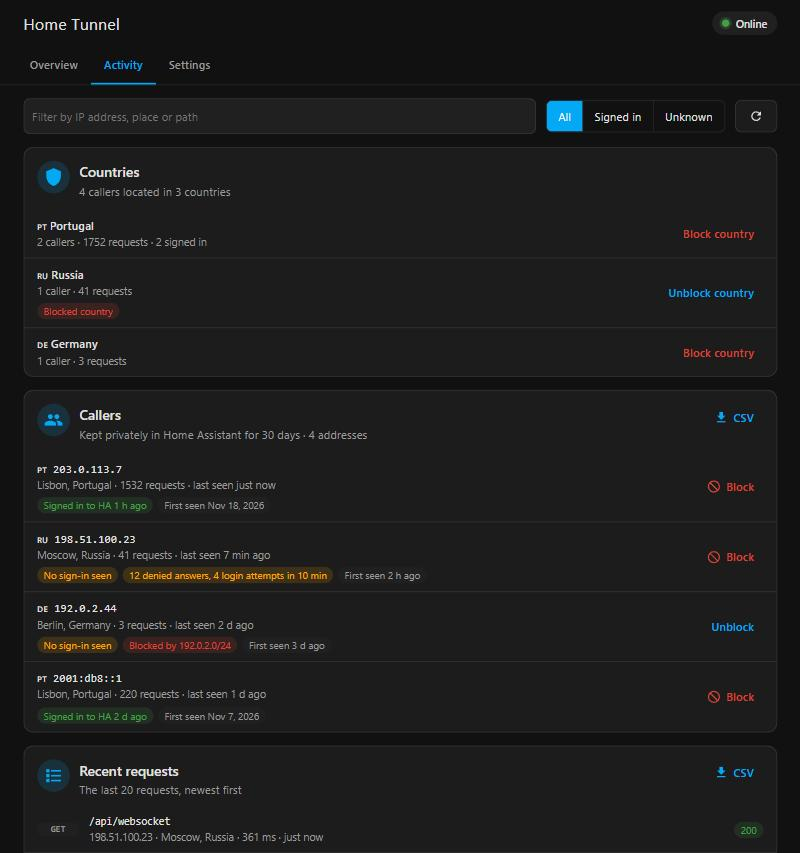
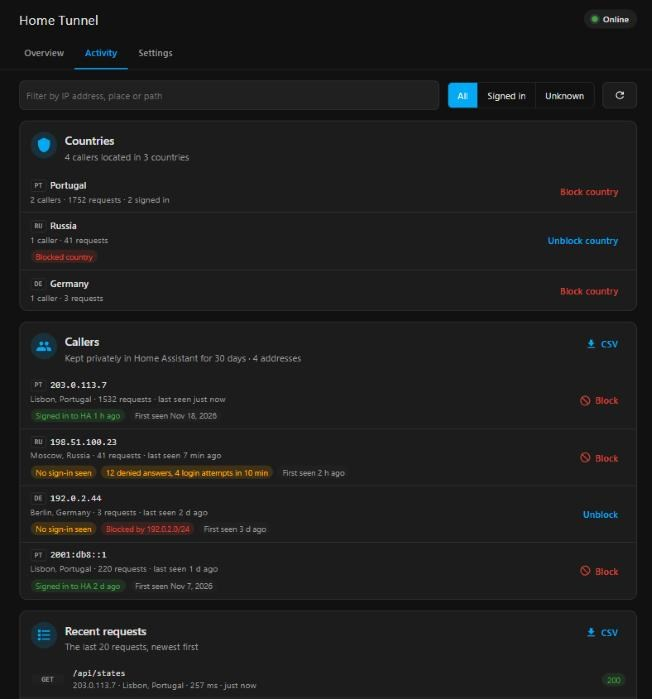
Fix country lookups and notify services; show country codes
Run ipapi.co lookups one at a time, pause on rate limits and retry instead of
caching an empty answer, so country rules see most callers. Accept repeated
ips= parameters, since a host firewall refused comma-separated IP lists.
Read Home Assistant and release answers whole: a single read() could return
a partial body and broke the notify service list on large installs. Show
countries as two-letter codes instead of flag emoji.

diff --git a/home-assistant/connector/setup.html b/home-assistant/connector/setup.html
@@ -67,6 +67,8 @@
     .chip.on,.chip.ok{background:rgba(var(--rgb-success-color),.15);color:var(--success-color)}
     .chip.warn{background:rgba(var(--rgb-warning-color),.15);color:var(--warning-color)}
     .chip.bad{background:rgba(var(--rgb-error-color),.15);color:var(--error-color)}
+    .cc{display:inline-block;min-width:24px;margin-right:6px;padding:0 4px;border-radius:4px;border:1px solid var(--divider-color);font-family:var(--code-font-family);font-size:11px;font-weight:600;line-height:16px;text-align:center;color:var(--secondary-text-color);vertical-align:1px}
+    .chip .cc{border-color:currentColor;color:inherit;margin-right:4px}
     .chip-x{border:0;background:none;color:inherit;font:inherit;font-size:14px;line-height:1;padding:0 0 0 6px;cursor:pointer}
     .chip.info{background:rgba(var(--rgb-primary-color),.15);color:var(--primary-color)}
     .method{font-family:var(--code-font-family);font-size:11px;font-weight:600;min-width:52px;text-align:center}
@@ -200,7 +202,8 @@
   let regionNames = null;
   try { regionNames = new Intl.DisplayNames([navigator.language || 'en', 'en'], {type: 'region'}); } catch (error) { /* older browser */ }
   const countryName = code => { try { return regionNames?.of(code) || code; } catch (error) { return code; } };
-  const flag = code => /^[A-Z]{2}$/.test(code || '') ? String.fromCodePoint(...[...code].map(c => 0x1F1E6 + c.charCodeAt(0) - 65)) : '';
+  // A two-letter country code, shown as a small tag in place of a flag.
+  const countryTag = code => /^[A-Z]{2}$/.test(code || '') ? el('span', {class: 'cc', title: countryName(code)}, code) : null;
   const COUNTRY_MODES = [['off', 'Off'], ['block', 'Block listed'], ['allow', 'Allow only listed']];
 
   const state = {
@@ -752,7 +755,7 @@
         'aria-pressed': String(!!selected), 'aria-label': selected ? 'Show all callers' : `Show requests from ${row.ip}`,
         onclick: pick, onkeydown: e => e.target === e.currentTarget && (e.key === 'Enter' || e.key === ' ') && (e.preventDefault(), pick())},
         el('div', {class: 'grow'},
-          el('div', {class: 'title mono'}, state.countries[row.ip] ? `${flag(state.countries[row.ip])} ` : '', row.ip),
+          el('div', {class: 'title mono'}, countryTag(state.countries[row.ip]), row.ip),
           el('div', {class: 'sub'}, [loc(row.ip), plural(num(row.requests), 'request'), `last seen ${ago(row.last_seen)}`].filter(Boolean).join(' · ')),
           el('div', {class: 'chips'},
             row.status === 'authenticated'
@@ -788,7 +791,7 @@
       el('div', {class: 'toolbar'}, search,
         segmented(CALLER_FILTERS, state.filter, value => { state.filter = value; state.callerShown = 25; render(); }, 'Caller filter'),
         state.country ? el('button', {class: 'btn', onclick: () => { state.country = ''; render(); }, 'aria-label': `Stop showing only ${countryName(state.country)}`},
-          `${flag(state.country)} ${countryName(state.country)} ×`) : null,
+          countryTag(state.country), `${countryName(state.country)} ×`) : null,
         el('button', {class: 'btn', id: 'refresh-activity', onclick: () => { refreshTelemetry(); refreshBlocks(); }, 'aria-label': 'Refresh', title: 'Refresh'}, icon(ICONS.refresh))),
       renderCountries(callers),
       section(ICONS.people, 'Callers', historyNote, callers.length ? csv('callers', () => exportCallers(m)) : null,
@@ -859,7 +862,7 @@
         return el('div', {class: `row clickable${state.country === g.code ? ' selected' : ''}`, tabindex: '0', role: 'button',
           'aria-label': `Show callers from ${countryName(g.code)}`, onclick: pick,
           onkeydown: e => e.target === e.currentTarget && (e.key === 'Enter' || e.key === ' ') && (e.preventDefault(), pick())},
-          el('div', {class: 'grow'}, el('div', {class: 'title'}, `${flag(g.code)} ${countryName(g.code)}`),
+          el('div', {class: 'grow'}, el('div', {class: 'title'}, countryTag(g.code), countryName(g.code)),
             el('div', {class: 'sub'}, [plural(g.callers, 'caller'), plural(g.requests, 'request'), g.signedIn ? `${g.signedIn} signed in` : null].filter(Boolean).join(' · ')),
             blockedHere ? el('div', {class: 'chips'}, chip(c.mode === 'allow' ? 'Not allowed' : 'Blocked country', 'bad')) : null),
           el('button', {class: `btn text${blockedHere ? '' : ' danger'}`, disabled: state.busy, onclick: e => { e.stopPropagation(); toggle(g.code); }, onkeydown: e => e.stopPropagation()},
@@ -1118,7 +1121,7 @@
         }, 'Country rule')),
       el('div', {class: 'row'},
         el('div', {class: 'grow'}, el('div', {class: 'title'}, c.mode === 'allow' ? 'Allowed countries' : 'Countries'),
-          c.codes.length ? el('div', {class: 'chips'}, c.codes.map(code => el('span', {class: 'chip info'}, `${flag(code)} ${countryName(code)}`,
+          c.codes.length ? el('div', {class: 'chips'}, c.codes.map(code => el('span', {class: 'chip info'}, countryTag(code), countryName(code),
             el('button', {class: 'chip-x', type: 'button', 'aria-label': `Remove ${countryName(code)}`, title: 'Remove', disabled: state.busy,
               onclick: () => save({codes: c.codes.filter(x => x !== code), mode: c.mode === 'allow' && c.codes.length === 1 ? 'off' : c.mode})}, '×'))))
             : el('div', {class: 'sub'}, 'None yet.'))),
@@ -1126,12 +1129,13 @@
         el('div', {}, el('label', {class: 'field', for: 'country-pick'}, 'Add a country'),
           el('select', {id: 'country-pick', style: 'width:100%', onchange: e => { state.countryPick = e.target.value; }},
             el('option', {value: '', selected: !state.countryPick}, 'Pick a country…'),
-            available.map(([code, name]) => el('option', {value: code, selected: code === state.countryPick}, `${flag(code)} ${name}`)))),
+            available.map(([code, name]) => el('option', {value: code, selected: code === state.countryPick}, `${name} (${code})`)))),
         el('div', {style: 'flex:0 0 auto;min-width:0'}, el('button', {class: 'btn', type: 'button', disabled: state.busy, onclick: add}, 'Add')),
         el('div', {style: 'min-width:160px'}, el('label', {class: 'field', for: 'country-minutes'}, 'Block for'),
           el('select', {id: 'country-minutes', style: 'width:100%', disabled: state.busy, onchange: e => save({minutes: Number(e.target.value) || null})},
             BLOCK_DURATIONS.filter(([value]) => value !== '60').map(([value, text]) =>
               el('option', {value, selected: String(c.minutes ?? '') === value}, text))))),
+      geoProblem(s.geolocation_status),
       selfRisk ? el('div', {class: 'pad sub warn'}, `You are connecting from ${countryName(myCountry)}. This rule would block you if you weren’t already signed in.`) : null,
       el('div', {class: 'pad sub'}, 'Each address is checked the first time it’s seen, so its first requests get through. Addresses that have signed in to Home Assistant are never blocked by country. Lookups count toward the 200-a-day limit; once it’s reached, new addresses aren’t checked until the next day.'),
     ];
@@ -1140,6 +1144,14 @@
         state.geoSaving ? 'Saving…' : 'Sends public caller addresses to ipapi.co for an approximate city, region and country. Results are cached for a day, at most 200 new addresses a day, and can be wrong. Turning this off also turns off country data and country blocking.',
         on, setGeolocation, state.geoSaving),
       rules);
+  }
+
+  function geoProblem(status) {
+    if (!status) return null;
+    if (status.remaining_today === 0) return el('div', {class: 'pad sub warn'}, 'Today’s 200 location lookups are used up. New addresses get a country again tomorrow.');
+    if (status.error === 'rate_limited') return el('div', {class: 'pad sub warn'}, `ipapi.co is limiting lookups (${ago(new Date(status.at * 1000).toISOString())}). Addresses are checked as it allows.`);
+    if (status.error === 'failed') return el('div', {class: 'pad sub warn'}, `The last location lookup failed (${ago(new Date(status.at * 1000).toISOString())}). Failed addresses are retried after 15 minutes.`);
+    return null;
   }
 
   async function saveCountries(value) {
@@ -1222,7 +1234,8 @@
     const ips = [...new Set([...recent, ...callers])].filter(ip => isIp(ip) && !(ip in state.locations)).slice(0, 10);
     if (!ips.length) return;
     try {
-      const result = await api(`geolocation?ips=${encodeURIComponent(ips.join(','))}`);
+      // Repeated parameters: some hosting firewalls refuse a comma-separated list of IP addresses.
+      const result = await api(`geolocation?${ips.map(ip => `ips=${encodeURIComponent(ip)}`).join('&')}`);
       if (!result.enabled) return;
       for (const ip of ips) {
         state.locations[ip] = (result.locations || {})[ip] || '';

diff --git a/home-assistant/connector/service.py b/home-assistant/connector/service.py
@@ -60,6 +60,7 @@ DEFAULT_COUNTRIES = {"mode": "off", "codes": [], "minutes": 30 * 24 * 60}
 GEOLOCATION_CACHE_TTL = 24 * 60 * 60
 GEOLOCATION_CACHE_LIMIT = 512
 GEOLOCATION_LOOKUP_LIMIT = 200
+GEOLOCATION_URL = "https://ipapi.co/{}/json/"
 GEOLOCATION_CACHE = {}
 GEOLOCATION_WINDOW_STARTED = 0
 GEOLOCATION_LOOKUP_COUNT = 0
@@ -72,6 +73,18 @@ VERSION_PATTERN = re.compile(r"\A(0|[1-9][0-9]*)\.(0|[1-9][0-9]*)\.(0|[1-9][0-9]
 PAIR_LABEL = "home-tunnel-pair-v1"
 LOG = logging.getLogger("home-tunnel-service")
 child = None
+
+
+async def read_limited(response, limit):
+    """The whole response body, refusing anything larger than limit bytes."""
+    if response.content_length is not None and response.content_length > limit:
+        raise ValueError("response too large")
+    body = bytearray()
+    async for block in response.content.iter_chunked(65536):
+        body.extend(block)
+        if len(body) > limit:
+            raise ValueError("response too large")
+    return bytes(body)
 
 
 def read_json(path, limit=8192):
@@ -239,9 +252,7 @@ async def release_checker():
                 async with session.get(RELEASE_MANIFEST_URL, allow_redirects=False) as response:
                     if response.status != 200 or (response.content_length is not None and response.content_length > 16384):
                         raise ValueError("release metadata unavailable")
-                    raw = await response.content.read(16385)
-                    if len(raw) > 16384:
-                        raise ValueError("release metadata too large")
+                    raw = await read_limited(response, 16384)
                     metadata = valid_release_manifest(json.loads(raw))
                     if metadata is None:
                         raise ValueError("release metadata invalid")
@@ -362,6 +373,8 @@ async def status(request):
         "error": live.get("error") if now - live.get("updated_at", 0) < 90 else None,
         "relay_features": relay_version.get("features") if isinstance(relay_version.get("features"), list) else [],
         "relay_native_clients": relay_version.get("native_clients"),
+        "geolocation_status": {"error": GEOLOCATION_STATUS["error"], "at": GEOLOCATION_STATUS["at"],
+                               "remaining_today": max(0, GEOLOCATION_LOOKUP_LIMIT - GEOLOCATION_LOOKUP_COUNT)},
         "relay_refused": REFUSED["items"],
         "relay_refused_at": REFUSED["at"],
         "relay_latency_ms": relay_version.get("latency_ms"),
@@ -514,6 +527,14 @@ async def update_settings(request):
     return web.json_response({"homeassistant_url": value, "restarting": restarting}, headers={"Cache-Control": "no-store"})
 
 
+GEOLOCATION_STATUS = {"error": None, "at": None, "paused_until": 0.0}
+
+
+def refund_location_slots(count):
+    global GEOLOCATION_LOOKUP_COUNT
+    GEOLOCATION_LOOKUP_COUNT = max(0, GEOLOCATION_LOOKUP_COUNT - count)
+
+
 def fetch_location_slots(count, now):
     """Reserve up to `count` new ipapi.co lookups under the shared daily cap."""
     global GEOLOCATION_WINDOW_STARTED, GEOLOCATION_LOOKUP_COUNT
@@ -556,26 +577,41 @@ async def lookup_locations(ips, max_new=10):
             found[value] = (cached[1], cached[2] if len(cached) > 2 else "")
         else:
             missing.append(value)
+    if missing and time.monotonic() < GEOLOCATION_STATUS["paused_until"]:
+        return found  # the provider asked us to slow down
     missing = missing[:fetch_location_slots(min(len(missing), max_new), now)]
-    semaphore = asyncio.Semaphore(4)
 
-    async def lookup(session, value):
-        async with semaphore:
-            try:
-                async with session.get(f"https://ipapi.co/{value}/json/") as response:
-                    if response.status != 200:
-                        return value, ("", "")
-                    return value, parse_location(await response.json(content_type=None))
-            except (aiohttp.ClientError, asyncio.TimeoutError, ValueError, OSError):
-                return value, ("", "")
+    def remember(value, label, code):
+        if len(GEOLOCATION_CACHE) >= GEOLOCATION_CACHE_LIMIT:
+            GEOLOCATION_CACHE.pop(next(iter(GEOLOCATION_CACHE)))
+        GEOLOCATION_CACHE[value] = (now, label, code)
 
     if missing:
+        # One at a time: ipapi.co's free tier refuses bursts of parallel lookups.
         async with aiohttp.ClientSession(timeout=aiohttp.ClientTimeout(total=5), trust_env=False) as session:
-            for value, (label, code) in await asyncio.gather(*(lookup(session, ip) for ip in missing)):
+            for index, value in enumerate(missing):
+                try:
+                    async with session.get(GEOLOCATION_URL.format(value)) as response:
+                        if response.status == 429:
+                            refund_location_slots(len(missing) - index)
+                            GEOLOCATION_STATUS.update({"error": "rate_limited", "at": time.time(), "paused_until": time.monotonic() + 120})
+                            LOG.info("Location lookups rate-limited by ipapi.co; pausing")
+                            break
+                        data = await response.json(content_type=None) if response.status == 200 else None
+                except (aiohttp.ClientError, asyncio.TimeoutError, ValueError, OSError):
+                    data = None
+                label, code = parse_location(data)
+                if isinstance(data, dict) and data.get("reason") == "RateLimited":
+                    refund_location_slots(len(missing) - index)
+                    GEOLOCATION_STATUS.update({"error": "rate_limited", "at": time.time(), "paused_until": time.monotonic() + 120})
+                    break
+                if code or label:
+                    GEOLOCATION_STATUS.update({"error": None, "at": time.time()})
+                else:
+                    GEOLOCATION_STATUS.update({"error": "failed", "at": time.time()})
                 found[value] = (label, code)
-                if len(GEOLOCATION_CACHE) >= GEOLOCATION_CACHE_LIMIT:
-                    GEOLOCATION_CACHE.pop(next(iter(GEOLOCATION_CACHE)))
-                GEOLOCATION_CACHE[value] = (now, label, code)
+                remember(value, label, code)
+                await asyncio.sleep(0.25)
     return found
 
 
@@ -583,7 +619,7 @@ async def geolocation(request):
     settings = read_json(SETTINGS) or {}
     if settings.get("geolocation_enabled") is not True:
         return web.json_response({"enabled": False, "locations": {}, "countries": {}}, headers={"Cache-Control": "no-store"})
-    ips = list(dict.fromkeys(request.query.get("ips", "").split(",")))
+    ips = list(dict.fromkeys(ip for value in request.query.getall("ips", []) for ip in value.split(",") if ip))
     if not ips or len(ips) > 10:
         raise web.HTTPBadRequest(text="Request up to 10 recent IP addresses")
     found = await lookup_locations(ips)
@@ -871,9 +907,8 @@ async def ha_api(method, path, payload=None):
                                    headers={"Authorization": f"Bearer {SUPERVISOR_TOKEN}"}) as response:
             if response.status >= 400:
                 raise aiohttp.ClientResponseError(response.request_info, (), status=response.status)
-            raw = await response.content.read(262145)
-            if len(raw) > 262144:
-                raise ValueError("Home Assistant response too large")
+            # The services list of a large install runs to megabytes.
+            raw = await read_limited(response, 8 * 1024 * 1024)
             return json.loads(raw) if raw else None
 
 
@@ -906,7 +941,9 @@ async def notify_targets(request):
                                   if NOTIFY_TARGET_PATTERN.fullmatch(f"notify.{name}") and name not in ("send_message", "persistent_notification"))
     except PermissionError:
         error = "unavailable"
-    except (aiohttp.ClientError, asyncio.TimeoutError, ValueError, OSError):
+    except (aiohttp.ClientError, asyncio.TimeoutError, ValueError, OSError) as failure:
+        LOG.warning("Could not list notify services (%s%s)", type(failure).__name__,
+                    f" {failure.status}" if isinstance(failure, aiohttp.ClientResponseError) else "")
         error = "unreachable"
     return web.json_response({"targets": targets, "error": error}, headers={"Cache-Control": "no-store"})
 

diff --git a/tests/test_features.py b/tests/test_features.py
@@ -180,6 +180,71 @@ class ServiceFeatureTests(unittest.IsolatedAsyncioTestCase):
             self.assertEqual(service.REFUSED["items"][0]["route"], "/api/events/websocket")
             service.REFUSED.update({"items": [], "at": None, "checked": 0.0})
 
+    async def fake_ipapi(self, answers):
+        """A local stand-in for ipapi.co; answers maps IP -> (status, json)."""
+        seen = []
+
+        async def handler(request):
+            ip = request.match_info["ip"]
+            seen.append(ip)
+            status, body = answers.get(ip, (200, {"country_code": "PT", "country_name": "Portugal", "city": "Porto"}))
+            return web.json_response(body, status=status)
+        app = web.Application()
+        app.router.add_get("/{ip}/json/", handler)
+        runner = web.AppRunner(app)
+        await runner.setup()
+        site = web.TCPSite(runner, "127.0.0.1", 0)
+        await site.start()
+        self.addAsyncCleanup(runner.cleanup)
+        port = site._server.sockets[0].getsockname()[1]
+        return f"http://127.0.0.1:{port}/{{}}/json/", seen
+
+    async def test_lookups_run_one_at_a_time_and_pause_when_rate_limited(self):
+        url, seen = await self.fake_ipapi({"1.1.1.1": (429, {"error": True, "reason": "RateLimited"})})
+        state = {"GEOLOCATION_URL": url, "GEOLOCATION_CACHE": {}, "GEOLOCATION_LOOKUP_COUNT": 0,
+                 "GEOLOCATION_WINDOW_STARTED": time.monotonic(),
+                 "GEOLOCATION_STATUS": {"error": None, "at": None, "paused_until": 0.0}}
+        with patch.multiple(service, **state):
+            found = await service.lookup_locations(["8.8.8.8", "1.1.1.1", "9.9.9.9"])
+            self.assertEqual(found, {"8.8.8.8": ("Porto, Portugal", "PT")})
+            self.assertEqual(seen, ["8.8.8.8", "1.1.1.1"], "lookups stop at the first rate-limit answer")
+            self.assertNotIn("1.1.1.1", service.GEOLOCATION_CACHE, "a rate-limited address is retried, not cached empty")
+            self.assertEqual(service.GEOLOCATION_LOOKUP_COUNT, 1, "unused lookups go back to the daily budget")
+            self.assertEqual(service.GEOLOCATION_STATUS["error"], "rate_limited")
+            self.assertEqual(await service.lookup_locations(["9.9.9.9"]), {}, "no new lookups while paused")
+            self.assertEqual(len(seen), 2)
+
+    async def test_geolocation_endpoint_accepts_repeated_parameters(self):
+        url, _ = await self.fake_ipapi({})
+        with tempfile.TemporaryDirectory() as directory:
+            settings = Path(directory) / "settings.json"
+            settings.write_text(json.dumps({"geolocation_enabled": True}))
+            state = {"GEOLOCATION_URL": url, "GEOLOCATION_CACHE": {}, "GEOLOCATION_LOOKUP_COUNT": 0, "SETTINGS": settings,
+                     "GEOLOCATION_WINDOW_STARTED": time.monotonic(), "GEOLOCATION_STATUS": {"error": None, "at": None, "paused_until": 0.0}}
+            from aiohttp.test_utils import make_mocked_request
+            with patch.multiple(service, **state):
+                response = await service.geolocation(make_mocked_request("GET", "/api/geolocation?ips=8.8.8.8&ips=1.1.1.1,9.9.9.9"))
+            self.assertEqual(json.loads(response.text)["countries"], {"8.8.8.8": "PT", "1.1.1.1": "PT", "9.9.9.9": "PT"})
+
+    async def test_large_home_assistant_answers_are_read_whole(self):
+        services = [{"domain": f"domain_{n}", "services": {f"service_{m}": {"description": "x" * 200} for m in range(40)}} for n in range(60)]
+        services.append({"domain": "notify", "services": {"mobile_app_phone": {}, "send_message": {}}})
+
+        async def handler(request):
+            return web.json_response(services)
+        app = web.Application()
+        app.router.add_get("/core/api/services", handler)
+        runner = web.AppRunner(app)
+        await runner.setup()
+        site = web.TCPSite(runner, "127.0.0.1", 0)
+        await site.start()
+        self.addAsyncCleanup(runner.cleanup)
+        port = site._server.sockets[0].getsockname()[1]
+        with patch.object(service, "SUPERVISOR_API", f"http://127.0.0.1:{port}/core/api"), patch.object(service, "SUPERVISOR_TOKEN", "t"):
+            data = json.loads((await service.notify_targets(None)).text)
+        self.assertGreater(len(json.dumps(services)), 300000)
+        self.assertEqual(data, {"targets": ["persistent_notification", "notify.mobile_app_phone"], "error": None})
+
     def test_supervisor_token_is_taken_out_of_the_environment(self):
         with patch.dict(os.environ, {"HOME_TUNNEL_SUPERVISOR_TOKEN": "secret", "SUPERVISOR_TOKEN": "x"}):
             service.take_supervisor_token()

diff --git a/home-assistant/connector/metrics.py b/home-assistant/connector/metrics.py
@@ -10,7 +10,7 @@ import time
 import logging
 from aiohttp import web
 
-VERSION = "0.7.2"
+VERSION = "0.7.3"
 PUBLIC_HEALTH_MAX_AGE = 90
 IP_HISTORY_PATH = Path("/data/state/caller-ips.json")
 IP_HISTORY_TTL = 30 * 24 * 60 * 60

diff --git a/CHANGELOG.md b/CHANGELOG.md
@@ -6,7 +6,14 @@ Release notes for Home Tunnel. Relay releases are installed manually on IIS; the
 
 - Let crawlers fetch the IIS relay so they can read its no-index response header.
 - Add an app icon and logo for the Home Assistant app store, and rewrite the README, app documentation and architecture guide with screenshots, badges and My Home Assistant buttons.
-- Bring the configuration and security guides up to date with 0.7.2, and remove emoji from the documentation.
+
+## 0.7.3
+
+- Bring the configuration and security guides up to date, and remove emoji from the documentation.
+- Show countries as two-letter codes instead of flag emoji on the Activity and Settings pages.
+- Fix country blocking missing most callers: location lookups now run one at a time, pause when ipapi.co rate-limits, and retry instead of remembering an empty answer for 15 minutes. The Settings page says when lookups are limited or used up.
+- Fix the dashboard's location lookups failing through the tunnel on hosts whose firewall refuses a comma-separated list of IP addresses.
+- Fix the notify service list failing on installs with many integrations, and the release check, which could read a partial answer.
 
 ## 0.7.2
 

diff --git a/home-assistant/DOCS.md b/home-assistant/DOCS.md
@@ -120,6 +120,7 @@ Uninstalling the app or removing its data deletes all of this and unpairs it on 
 - **Pairing stuck with "rejected the setup code hash":** the `web.config` line doesn't match the current code. Paste it again, or make a new code.
 - **Public check failing:** the relay answers, but requests aren't coming back through this tunnel. Usually a proxy or CDN in front of IIS, or a second relay worker. The app reconnects on its own.
 - **An app's web UI doesn't load through the tunnel:** check **Activity → Refused WebSocket connections**. Home Assistant's own WebSocket and any WebSocket inside an app web UI are allowed (relay 0.5.1 or newer; older relays only allow Zigbee2MQTT's). **Settings → What the tunnel lets through** shows the rules.
+- **A country rule didn't block my test:** addresses that have signed in to Home Assistant are never blocked by country. Test from a device that hasn't signed in, and give it 15 seconds. If the Settings card says lookups are limited or used up, new addresses wait for a country.
 - **Notifications say there's no API access:** restart the app; if that doesn't help, reinstall it so Home Assistant grants the permission again.
 
 ## Limits

diff --git a/home-assistant/CHANGELOG.md b/home-assistant/CHANGELOG.md
@@ -2,6 +2,13 @@
 
 Release notes for Home Tunnel. This copy is read by Home Assistant Supervisor. Relay releases are installed manually on IIS; the Home Assistant app is updated through Supervisor.
 
+## 0.7.3
+
+- Show countries as two-letter codes instead of flag emoji on the Activity and Settings pages.
+- Fix country blocking missing most callers: location lookups now run one at a time, pause when ipapi.co rate-limits, and retry instead of remembering an empty answer for 15 minutes. The Settings page says when lookups are limited or used up.
+- Fix the dashboard's location lookups failing through the tunnel on hosts whose firewall refuses a comma-separated list of IP addresses.
+- Fix the notify service list failing on installs with many integrations, and the release check, which could read a partial answer.
+
 ## 0.7.2
 
 - Let every app web UI work through the tunnel, not only Zigbee2MQTT: WebSockets anywhere below an app's web UI address are now allowed. Home Assistant checks the app session for these; paths that try to step outside are still refused.
